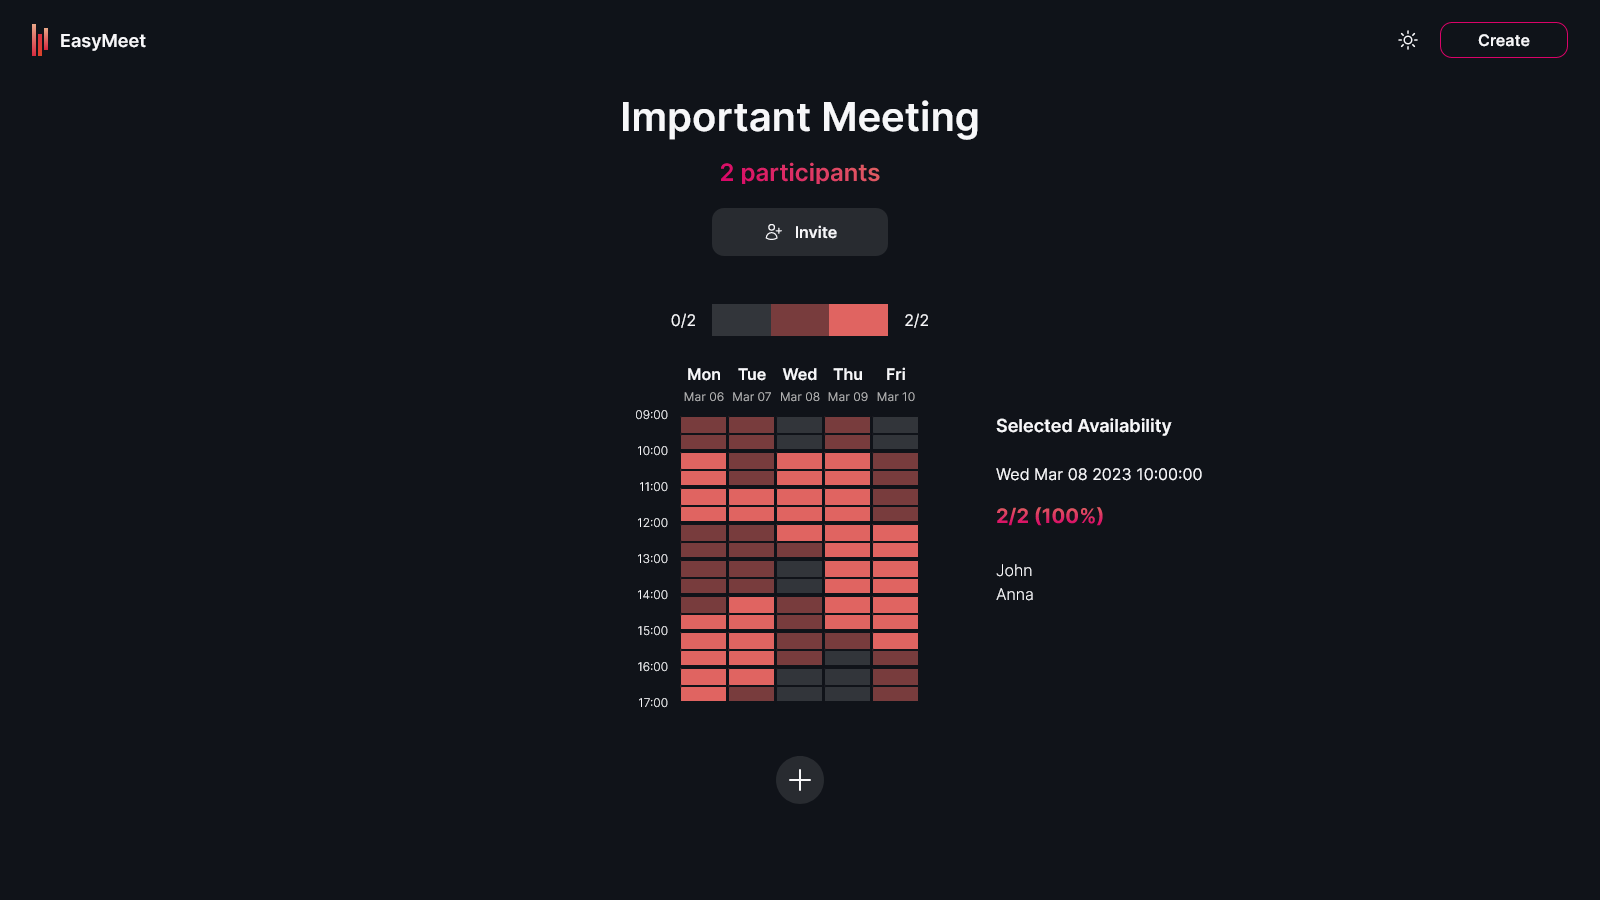
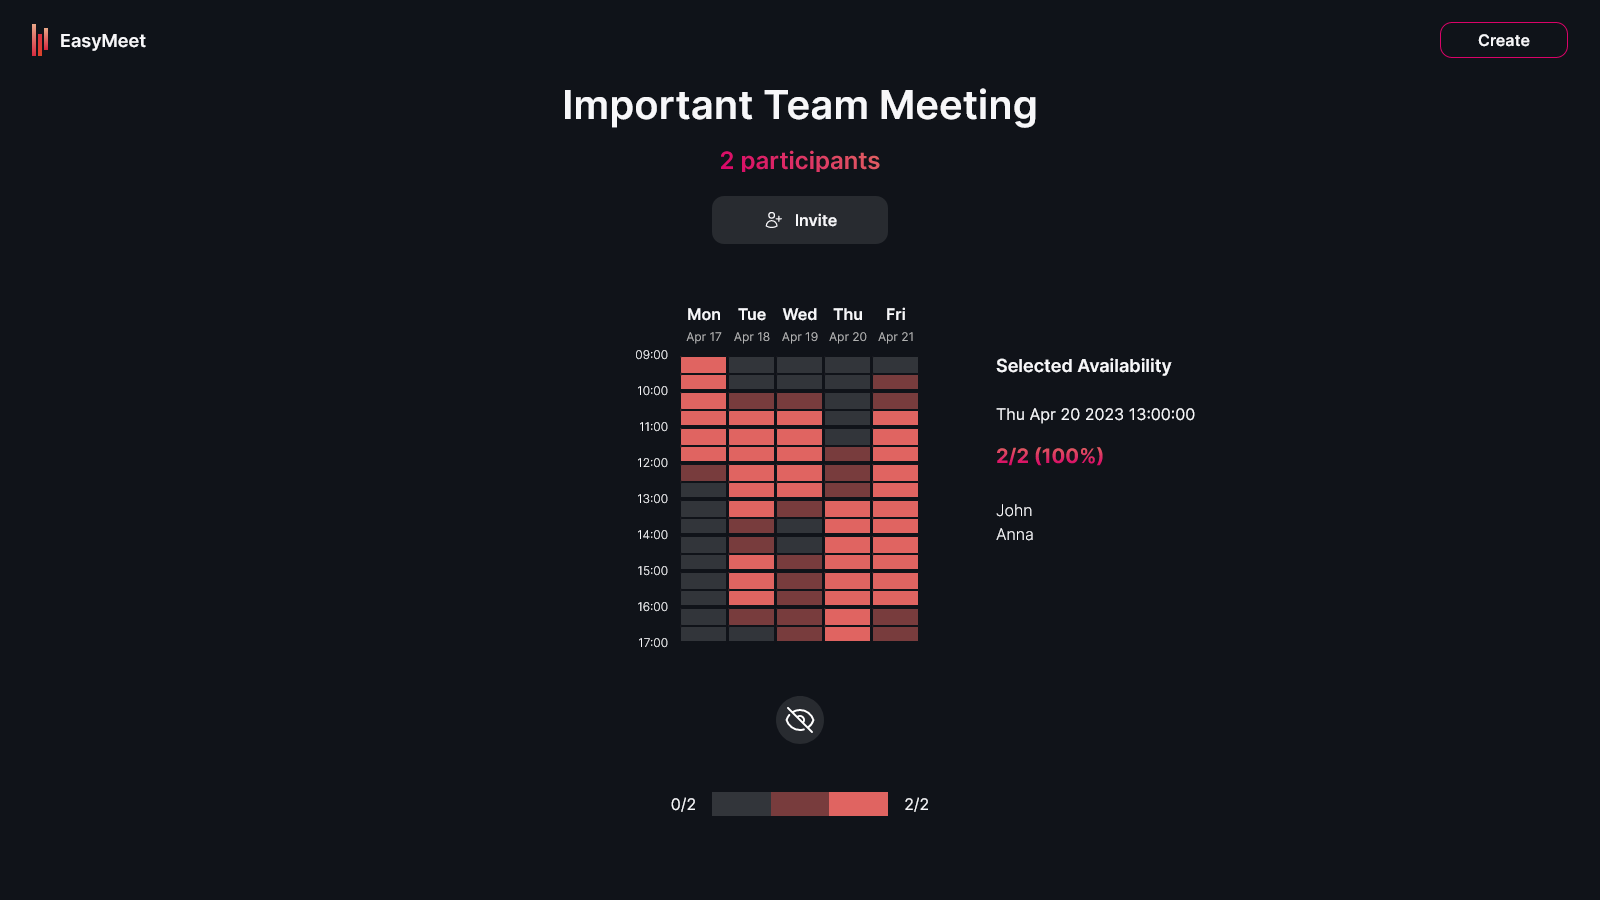
Changed the server ports back

diff --git a/frontend/src/components/TopBar/topBar.scss b/frontend/src/components/TopBar/topBar.scss
@@ -54,9 +54,9 @@ a {
     align-items: center;
     gap: 1.25rem;
 
-    @media only screen and (max-width: 640px) {
-        display: none;
-    }
+    // @media only screen and (max-width: 640px) {
+    //     display: none;
+    // }
 }
 
 .ModeChangeButton {
@@ -65,11 +65,11 @@ a {
     cursor: pointer;
 }
 
-.ShowMenuButton {
-    display: none;
-    height: 1.5rem;
+// .ShowMenuButton {
+//     display: none;
+//     height: 1.5rem;
 
-    @media only screen and (max-width: 640px) {
-        display: block;
-    }
-}
+//     @media only screen and (max-width: 640px) {
+//         display: block;
+//     }
+// }

diff --git a/frontend/src/components/TopBar/TopBar.tsx b/frontend/src/components/TopBar/TopBar.tsx
@@ -19,10 +19,10 @@ export const TopBar = () => {
     <div className='TopBarContainer'>
       <Link to='/'><Logo /></Link>
       <div className='ButtonContainer'>
-        <SunIcon className='ModeChangeButton'></SunIcon>
+        {/* <SunIcon className='ModeChangeButton'></SunIcon> */}
         <Link to='/create/'><Button type={ButtonType.OUTLINE} size={ButtonSize.SM}>Create</Button></Link>
       </div>
-      <Bars3Icon className='ShowMenuButton'/>
+      {/* <Bars3Icon className='ShowMenuButton'/> */}
     </div>
   )
 }
